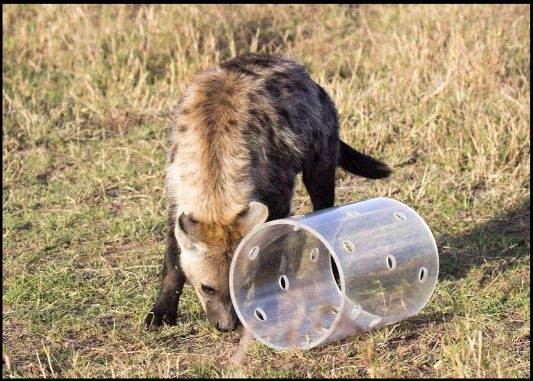
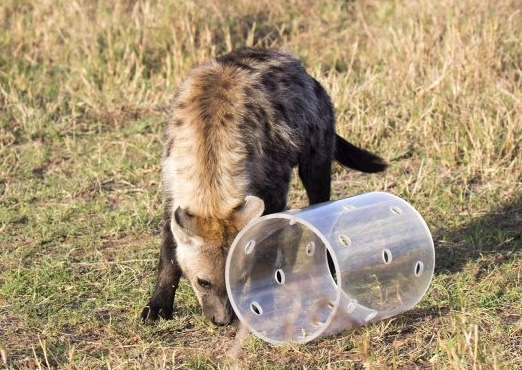
Updating text

diff --git a/research.html b/research.html
@@ -32,7 +32,7 @@
 <div class="banner" style="background-image:url('images/img-9183.jpg')"><div class="banner-inner"><h1>Research</h1></div></div>
 <main class="wrap content">
 <section class="intro-left">
-  <p class="lead">We study how individual differences in cognition develop, how social, ecological, and anthropogenic factors shape animal cognition in the wild, and how cognition affects fitness outcomes. Cities are among the fastest-changing environments on Earth, so we use urbanization as a natural experiment to ask how cognitive abilities develop, evolve, and help animals adapt to living alongside people.</p>
+  <p class="lead">Research in my lab is focused on how individual differences in cognition develop, how social, ecological, and anthropogenic factors shape animal cognition in the wild, and how cognition affects fitness outcomes. Cities are among the fastest-changing environments on Earth, so we use urbanization as an (un)natural <i>in situ</i>experiment to ask how cognitive abilities develop, evolve, and help animals adapt to environmental change.</p>
 </section>
 
 <section>
@@ -41,22 +41,22 @@
     <article class="theme">
       <h3>Self-domestication</h3>
       <p class="tags"><span class="tag tag-hyenas">Hyenas</span><span class="tag tag-coyotes">Coyotes</span></p>
-      <p>Animals living near people may face selection for less fear and aggression toward humans &mdash; the same pressures thought to have shaped early domestication. We ask whether urban hyenas and coyotes show signs of this &ldquo;self-domestication&rdquo; in their morphology, cognition, and prosocial behavior, and what it means for how they interact with people.</p>
+      <p>Animals living near people may face selection for less fear and aggression toward humans and/or reduced intraspecific aggression; the same pressures thought to have shaped early domestication. We ask whether urban hyenas and coyotes show signs of this &ldquo;self-domestication&rdquo; in their morphology, cognition, and prosocial behavior, and investigate what this could mean for human-wildlife interactions.</p>
     </article>
     <article class="theme">
       <h3>Problem-solving</h3>
       <p class="tags"><span class="tag tag-hyenas">Hyenas</span><span class="tag tag-coyotes">Coyotes</span></p>
-      <p>We develop a wide array of cognitive apparatus, from puzzle boxes like the multi-access box to tasks built for the field, to test abilities such as innovation, inhibitory control, and cooperation in wild animals. We then ask how individual traits, social factors, and urban living shape these abilities, and whether better problem-solvers gain a fitness advantage.</p>
+      <p>We use a wide array of cognitive apparatus, from puzzle boxes like the multi-access box to automated feeders, to test abilities such as innovation, inhibitory control, and cooperation in wild animals. We then ask how individual traits, social factors, and urban living shape these abilities, and whether better problem-solvers gain a fitness advantage.</p>
     </article>
     <article class="theme">
       <h3>Responses to novelty</h3>
       <p class="tags"><span class="tag tag-coyotes">Coyotes</span></p>
-      <p>How an animal reacts to something new &mdash; approaching it or avoiding it &mdash; shapes whether it can take advantage of new opportunities, and how likely it is to come into conflict with people. We study neophobia and exploration in coyotes and how these responses relate to life in human-dominated landscapes.</p>
+      <p>How an animal reacts to novelty shapes whether it can take advantage of new opportunities and how likely it is to come into conflict with people. We aim to disentangle both neophobia and neophilia from anthrophobia and anthrophilia in coyotes and how these responses relate to life in human-dominated landscapes.</p>
     </article>
     <article class="theme">
       <h3>Communication</h3>
       <p class="tags"><span class="tag tag-coyotes">Coyotes</span></p>
-      <p>Vocal communication coordinates group life, from deciding where to move to keeping track of who is nearby. Building on our work with meerkat &ldquo;move&rdquo; calls, we are investigating coyote vocal communication and how it may change in human-dominated environments.</p>
+      <p>Vocal communication coordinates group life, from deciding where to move to keeping track of who is nearby. Building on our work with meerkat communication, we are investigating coyote vocal communication and how it may change in human-dominated environments.</p>
     </article>
   </div>
 </section>
@@ -69,11 +69,11 @@
       <h3>Mara Hyena Project</h3>
       <p class="tags"><span class="tag tag-hyenas">Hyenas</span></p>
       <p>The <a href="https://marahyenas.com">Mara Hyena Project</a> has studied wild spotted hyenas in the Maasai Mara National Reserve, Kenya, since 1988, following individually known hyenas across clans and generations. This long-term record lets us link cognition to development, social rank, and lifetime reproductive success.</p>
-      <p>Our hyena work has also extended to urban hyenas in Harar and Mekelle, Ethiopia, where hyenas live alongside people &mdash; a rare opportunity to compare the cognition of the same species in wild and urban settings.</p>
+      <p>Our hyena work has also extended to urban hyenas in Ethiopia, where hyenas live alongside people which provides a rare opportunity to compare the cognition of the same species in wild and urban settings.</p>
     </div>
   </article>
   <article class="project">
-    <div class="project-img placeholder-img" role="img" aria-label="Coyote project photo coming soon"><span>Coyote photo coming soon</span></div>
+    <div class="project-img"><img src="images/CoyoteDLei.png"><p class="photo-credit">Photo: David Lei</p></div>
     <div class="project-text">
       <h3>Coyote Project</h3>
       <p class="tags"><span class="tag tag-coyotes">Coyotes</span></p>
@@ -83,9 +83,9 @@
   <article class="project">
     <div class="project-img"><img src="images/movementlju.jpg" alt="A group of meerkats traveling together" width="936" height="726" loading="lazy"></div>
     <div class="project-text">
-      <h3>Previous work: meerkat communication</h3>
+      <h3>Kalahari Meerkat Project</h3>
       <p class="tags"><span class="tag tag-meerkats">Meerkats</span></p>
-      <p>As a postdoc at the University of Zurich, Dr. Johnson-Ulrich studied meerkat communication and collective movement at the Kalahari Research Centre, South Africa, using playback experiments to test how &ldquo;move&rdquo; calls influence group decisions.</p>
+      <p>As a postdoc at the University of Zurich, Dr. Johnson-Ulrich studied meerkat communication and collective movement at the Kalahari Research Centre, South Africa, using playback experiments to test how &ldquo;move&rdquo; calls influence group decisions. Lily continues to collaborate with meerkat researchers on questions related to cognition and collective movement.</p>
     </div>
   </article>
 </section>
@@ -102,7 +102,7 @@
       <strong>Urban Cognition Lab</strong><br>
       Department of Psychology, Hunter College (CUNY)<br>
       695 Park Avenue, New York, NY 10065<br>
-      <a href="mailto:l.johnsonulrich@gmail.com">l.johnsonulrich@gmail.com</a>
+      <a href="mailto:lily.johnson-ulrich@hunter.cuny.edu">lily.johnson-ulrich@hunter.cuny.edu</a>
     </div>
     <div class="footer-links">
       <a href="files/Johnson-Ulrich_CV.pdf">CV</a>

diff --git a/dei.html b/dei.html
@@ -32,15 +32,15 @@
 <div class="banner" style="background-image:url('images/805251395.jpg')"><div class="banner-inner"><h1>Outreach &amp; Inclusion</h1></div></div>
 <main class="wrap content">
 <section class="intro-left">
-  <p class="lead">Research matters most when it reaches people. We share what we learn about animal minds with students, schools, zoos, and the public &mdash; and we work to make science a place where everyone belongs.</p>
+  <p class="lead">Research matters most when it reaches people. We share what we learn about animal minds with students, schools, zoos, and the public, and we work to make science a place where everyone belongs.</p>
 </section>
 
 <section class="two-col">
   <figure class="col-images"><img src="images/dejaclear.jpg" alt="A spotted hyena solving a clear cylinder puzzle" width="533" height="381" loading="lazy"><figcaption>DEJA, a wild spotted hyena, works out a puzzle during a cognition test.</figcaption></figure>
   <div class="col-text">
     <h2>Rethinking the hyena</h2>
-    <p>Spotted hyenas are often cast as cowardly, dim-witted scavengers. The reality is very different: they live in complex, female-led societies, kill most of their own food, are devoted mothers, and are skilled problem-solvers. Our research on hyena innovation and self-control adds to the evidence that these are some of the most socially and cognitively sophisticated carnivores in Africa.</p>
-    <p>We help set the record straight wherever we can &mdash; fact-checking hyena graphics for <em>National Geographic</em>, sharing cognition research with zoo audiences, illustrating educational pamphlets, and writing for the public. See more in <a href="in-the-news.html">News</a> and <a href="artscience.html">ArtScience</a>.</p>
+    <p>Spotted hyenas are often cast as mangy, cowardly scavengers. In reality, hyenas live in complex, female-led societies, hunt and kill most of their own food, are devoted mothers, and are skilled problem-solvers. Our research on hyena innovation and self-control adds to the evidence that these are some of the most socially and cognitively sophisticated carnivores in Africa.</p>
+    <p>We aim to help set the record straight wherever we can, e.g., fact-checking hyena graphics for <em>National Geographic</em>, sharing cognition research with the public, and illustrating educational pamphlets and posters. See more in <a href="in-the-news.html">News</a> and <a href="artscience.html">ArtScience</a>. I hope that one day the public sees hyenas a majestic carnivores akin to tigers, wolves, and bears!</p>
   </div>
 </section>
 
@@ -49,8 +49,7 @@
   <div class="col-text">
     <h2>Sharing animal cognition</h2>
     <p>Animals solve problems, make decisions, and communicate in ways that surprise most people. We bring that research to non-scientists through public talks, field blogs like <a href="http://msuhyenas.blogspot.com">Notes from Kenya</a>, media interviews, photography, and illustration.</p>
-    <p>We have also contributed to <strong>Project Biodiversify</strong>, which increases the visibility of researchers from underrepresented groups and gives biology teachers ready-to-use materials on new findings.</p>
-    <p class="callout"><strong>Invite us!</strong> We&rsquo;re happy to talk with schools, community groups, and nature organizations about hyenas, coyotes, and animal intelligence. <a href="mailto:l.johnsonulrich@gmail.com">Get in touch</a>.</p>
+    <p class="callout"><strong>Invite us!</strong> We&rsquo;re happy to talk with schools, community groups, and nature organizations about hyenas, coyotes, and animal intelligence. <a href="mailto:lily.johnson-ulrich@hunter.cuny.edu">Get in touch</a>.</p>
   </div>
 </section>
 
@@ -58,14 +57,15 @@
   <figure class="col-images"><img src="images/img-8069.jpg" alt="Students observing wildlife at a sanctuary" width="1100" height="733" loading="lazy"></figure>
   <div class="col-text">
     <h2>Inclusive science</h2>
-    <p>Classrooms, workplaces, and research are better when they include people from many backgrounds and experiences. In my teaching and mentoring I aim to make sure every student is treated fairly and feels welcome &mdash; including students of all races, ethnicities, genders, sexual orientations, socio-economic backgrounds, ages, religions, abilities, and mental health statuses.</p>
+    <p>Classrooms, workplaces, and research are better when they include people from many backgrounds and experiences. In my teaching and mentoring I aim to make sure every student is treated fairly and feels welcome, including students of all races, ethnicities, genders, sexual orientations, socio-economic backgrounds, ages, religions, abilities, and mental health statuses.</p>
     <p>In practice, that means a diversity statement in every syllabus, using students&rsquo; pronouns, avoiding jargon, acronyms, and culture-specific metaphors, and keeping my classroom and office a safe space.</p>
+    <p>Members of my lab are both contributers and users of <strong>Project Biodiversify</strong>, which increases the visibility of researchers from underrepresented groups and gives biology teachers ready-to-use materials on new findings.</p>
   </div>
 </section>
 
 <section class="land">
   <h2>Land acknowledgements</h2>
-  <p>Hunter College stands on the unceded homelands of the Mohican, Wappinger, and Munsee Lenape peoples, who nurtured relations with these waters and soils for generations before forced displacement. My commitment is to steward this space not just through words but through actions &mdash; centering equity in my classroom, challenging systemic harm, and honoring the resilience of Indigenous and marginalized communities whose histories are woven into this place.</p>
+  <p>Hunter College stands on the unceded homelands of the Mohican, Wappinger, and Munsee Lenape peoples, who nurtured relations with these waters and soils for generations before forced displacement. My commitment is to steward this space not just through words but through actions by centering equity in my classroom, challenging systemic harm, and honoring the resilience of Indigenous and marginalized communities whose histories are woven into this place.</p>
   <p>The Mara Hyena Project conducts its research in the Maasai Mara of Kenya, on lands traditionally stewarded by the Maasai people, whose livelihoods and cultural identity remain deeply connected to the land and its wildlife. I am grateful for the knowledge, hospitality, and collaboration of Maasai community members and colleagues.</p>
 </section>
 </main>
@@ -80,7 +80,7 @@
       <strong>Urban Cognition Lab</strong><br>
       Department of Psychology, Hunter College (CUNY)<br>
       695 Park Avenue, New York, NY 10065<br>
-      <a href="mailto:l.johnsonulrich@gmail.com">l.johnsonulrich@gmail.com</a>
+      <a href="mailto:lily.johnson-ulrich@hunter.cuny.edu">lily.johnson-ulrich@hunter.cuny.edu</a>
     </div>
     <div class="footer-links">
       <a href="files/Johnson-Ulrich_CV.pdf">CV</a>

diff --git a/join.html b/join.html
@@ -37,16 +37,17 @@
 <div class="join-grid">
   <article class="theme">
     <h3>Undergraduates</h3>
-    <p>Hunter undergraduates can work in the lab <strong>only by enrolling in independent research for course credit</strong>. Lab members get hands-on research experience: coding behavior from video, managing data, reviewing literature, and helping design experiments. No prior research experience is needed &mdash; curiosity, reliability, and attention to detail matter most.</p>
-    <p>To apply, <a href="mailto:l.johnsonulrich@gmail.com?subject=Independent%20research%20in%20the%20Urban%20Cognition%20Lab">email me</a> with your year and major, why you&rsquo;re interested in the lab, and the semester you&rsquo;d like to enroll.</p>
+    <p>Hunter undergraduates can work in the lab <strong>only by enrolling in independent research in psychology for course credit</strong>. Lab members get hands-on research experience: coding behavior from video, managing data, reviewing literature, and helping design experiments. No prior research experience is needed; curiosity, reliability, and attention to detail matter most.</p>
+    <p>To apply, <a href="mailto:lily.johnson-ulrich@hunter.cuny.edu?subject=Independent%20research%20in%20the%20Urban%20Cognition%20Lab">email me</a> with your year and major, why you&rsquo;re interested in the lab, and the semester you&rsquo;d like to enroll.</p>
   </article>
   <article class="theme">
     <h3>Prospective MA &amp; PhD students</h3>
-    <p>I welcome inquiries from prospective graduate students interested in animal cognition, urban wildlife, or communication. Please <a href="mailto:l.johnsonulrich@gmail.com?subject=Prospective%20graduate%20student">email me</a> and include:</p>
+    <p>I welcome inquiries from prospective graduate students interested in animal cognition, urban wildlife, or communication. Please <a href="mailto:lily.johnson-ulrich@hunter.cuny.edu?subject=Prospective%20graduate%20student">email me</a> and include:</p>
     <ul>
       <li>Your academic interests</li>
       <li>Your career goals</li>
-      <li>What you could contribute to the lab</li>
+      <li>Specific questions or hypotheses you'd like to work on in hyenas or coyotes</li>
+      <li>What unique skills or attributes you would contribute to the lab</li>
       <li>Your CV</li>
       <li>An unofficial transcript</li>
       <li>An example of your scientific writing</li>
@@ -54,7 +55,7 @@
   </article>
   <article class="theme">
     <h3>Postdocs</h3>
-    <p>I don&rsquo;t currently have funding for a postdoctoral position, but postdocs interested in applying for fellowship funding with me as a mentor are welcome to <a href="mailto:l.johnsonulrich@gmail.com?subject=Postdoctoral%20fellowship%20inquiry">reach out</a>.</p>
+    <p>I don&rsquo;t currently have funding for a postdoctoral position, but postdocs interested in applying for fellowship funding with me as a mentor are welcome to <a href="mailto:lily.johnson-ulrich@hunter.cuny.edu?subject=Postdoctoral%20fellowship%20inquiry">reach out</a>.</p>
   </article>
 </div>
 </main>
@@ -69,7 +70,7 @@
       <strong>Urban Cognition Lab</strong><br>
       Department of Psychology, Hunter College (CUNY)<br>
       695 Park Avenue, New York, NY 10065<br>
-      <a href="mailto:l.johnsonulrich@gmail.com">l.johnsonulrich@gmail.com</a>
+      <a href="mailto:lily.johnson-ulrich@hunter.cuny.edu">lily.johnson-ulrich@hunter.cuny.edu</a>
     </div>
     <div class="footer-links">
       <a href="files/Johnson-Ulrich_CV.pdf">CV</a>

diff --git a/index.html b/index.html
@@ -45,11 +45,11 @@
   <p class="intro-actions"><a class="btn" href="research.html">Our research</a> <a class="btn btn-outline" href="join.html">Join the lab</a></p>
 </section>
 <section class="cards">
-<a class="card" href="research.html"><img src="images/img-9183.jpg" alt="" width="900" height="600" class="card-img" loading="lazy"><span class="card-body"><strong>Research</strong><span>Hyenas, coyotes, and how animals think their way through cities.</span></span></a>
-<a class="card" href="people.html"><img src="images/img-1234.jpg" alt="" width="600" height="800" class="card-img" loading="lazy"><span class="card-body"><strong>People</strong><span>Meet Dr. Johnson-Ulrich and the students in the lab.</span></span></a>
-<a class="card" href="publications.html"><img src="images/img-0215.jpg" alt="" width="900" height="600" class="card-img" loading="lazy"><span class="card-body"><strong>Publications</strong><span>Papers, chapters, and a downloadable CV.</span></span></a>
+<a class="card" href="research.html"><img src="images/img-9183.jpg" alt="" width="900" height="600" class="card-img" loading="lazy"><span class="card-body"><strong>Research</strong><span>Cognition and urbanization.</span></span></a>
+<a class="card" href="people.html"><img src="images/img-1234.jpg" alt="" width="600" height="800" class="card-img" loading="lazy"><span class="card-body"><strong>People</strong><span>About me and my students in the lab.</span></span></a>
+<a class="card" href="publications.html"><img src="images/img-0215.jpg" alt="" width="900" height="600" class="card-img" loading="lazy"><span class="card-body"><strong>Publications</strong><span>Papers, chapters, and my CV.</span></span></a>
 <a class="card" href="in-the-news.html"><img src="images/242725962.jpg" alt="" width="900" height="802" class="card-img" loading="lazy"><span class="card-body"><strong>News</strong><span>Lab updates and media coverage of our research.</span></span></a>
-<a class="card" href="dei.html"><img src="images/img-6838.jpg" alt="" width="900" height="675" class="card-img" loading="lazy"><span class="card-body"><strong>Outreach</strong><span>Sharing animal cognition and rethinking the hyena.</span></span></a>
+<a class="card" href="dei.html"><img src="images/img-6838.jpg" alt="" width="900" height="675" class="card-img" loading="lazy"><span class="card-body"><strong>Outreach</strong><span>Sharing our research and dispelling myths about hyenas.</span></span></a>
 <a class="card" href="join.html"><img src="images/img-5966.jpg" alt="" width="600" height="800" class="card-img" loading="lazy"><span class="card-body"><strong>Join the Lab</strong><span>Research opportunities for Hunter students.</span></span></a>
 </section>
 </div>
@@ -65,7 +65,7 @@
       <strong>Urban Cognition Lab</strong><br>
       Department of Psychology, Hunter College (CUNY)<br>
       695 Park Avenue, New York, NY 10065<br>
-      <a href="mailto:l.johnsonulrich@gmail.com">l.johnsonulrich@gmail.com</a>
+      <a href="mailto:lily.johnson-ulrich@hunter.cuny.edu">lily.johnson-ulrich@hunter.cuny.edu</a>
     </div>
     <div class="footer-links">
       <a href="files/Johnson-Ulrich_CV.pdf">CV</a>

diff --git a/people.html b/people.html
@@ -40,7 +40,7 @@
 <p>My postdoctoral research focused on meerkat communication and collective movement. In particular, I investigated the function of 'move' calls on directional decision-making. I used playback experiments with habituated meerkats at the Kalahari Research Centre in South Africa.</p>
 <p>My dissertation research focused on the individual, social, and ecological causes of intraspecific variation in spotted hyena cognition and its consequences. I investigated the role that social factors like group size and rank have on the development of inhibitory control in wild spotted hyenas. I also traveled to Ethiopia to study innovation in urban spotted hyenas in order to better understand how animals might use abilities like innovation to adapt to urbanization and human-induced rapid environmental change.</p>
 <p>View my publications at <a href="https://www.researchgate.net/profile/Lily-Johnson-Ulrich">Research Gate</a> or <a href="https://scholar.google.com/citations?user=RbqpDe0AAAAJ&amp;hl=en&amp;oi=ao">Google Scholar</a> for more information about my research.</p>
-<p>Contact me directly at <a href="mailto:l.johnsonulrich@gmail.com">l.johnsonulrich@gmail.com</a>.</p>
+<p>Contact me directly at <a href="mailto:lily.johnson-ulrich@hunter.cuny.edu">lily.johnson-ulrich@hunter.cuny.edu</a>.</p>
     <p><a class="btn" href="files/Johnson-Ulrich_CV.pdf">Download CV (PDF)</a></p>
   </div>
 </article>
@@ -58,7 +58,7 @@
     <img class="avatar" src="images/tanishi-dasgupta.jpg" alt="Tanishi Dasgupta" width="120" height="120">
     <h3>Tanishi Dasgupta</h3>
     <p class="role">MA Student, Hunter College</p>
-    <p class="member-bio">Tanishi is interested in how competitive interactions shape cognition, and studies lion and hyena behavior in relation to cognition.</p>
+    <p class="member-bio">Tanishi is interested in how competitive interactions between lions and hyenas shape cognition.</p>
   </article>
   <article class="member">
     <img class="avatar" src="images/amanda-frey.jpg" alt="Amanda Frey" width="120" height="120">
@@ -81,7 +81,7 @@
       <strong>Urban Cognition Lab</strong><br>
       Department of Psychology, Hunter College (CUNY)<br>
       695 Park Avenue, New York, NY 10065<br>
-      <a href="mailto:l.johnsonulrich@gmail.com">l.johnsonulrich@gmail.com</a>
+      <a href="mailto:lily.johnson-ulrich@hunter.cuny.edu">lily.johnson-ulrich@hunter.cuny.edu</a>
     </div>
     <div class="footer-links">
       <a href="files/Johnson-Ulrich_CV.pdf">CV</a>

diff --git a/in-the-news.html b/in-the-news.html
@@ -166,7 +166,7 @@
       <strong>Urban Cognition Lab</strong><br>
       Department of Psychology, Hunter College (CUNY)<br>
       695 Park Avenue, New York, NY 10065<br>
-      <a href="mailto:l.johnsonulrich@gmail.com">l.johnsonulrich@gmail.com</a>
+      <a href="mailto:lily.johnson-ulrich@hunter.cuny.edu">lily.johnson-ulrich@hunter.cuny.edu</a>
     </div>
     <div class="footer-links">
       <a href="files/Johnson-Ulrich_CV.pdf">CV</a>

diff --git a/photos.html b/photos.html
@@ -109,7 +109,7 @@
       <strong>Urban Cognition Lab</strong><br>
       Department of Psychology, Hunter College (CUNY)<br>
       695 Park Avenue, New York, NY 10065<br>
-      <a href="mailto:l.johnsonulrich@gmail.com">l.johnsonulrich@gmail.com</a>
+      <a href="mailto:lily.johnson-ulrich@hunter.cuny.edu">lily.johnson-ulrich@hunter.cuny.edu</a>
     </div>
     <div class="footer-links">
       <a href="files/Johnson-Ulrich_CV.pdf">CV</a>

diff --git a/artscience.html b/artscience.html
@@ -75,7 +75,7 @@
       <strong>Urban Cognition Lab</strong><br>
       Department of Psychology, Hunter College (CUNY)<br>
       695 Park Avenue, New York, NY 10065<br>
-      <a href="mailto:l.johnsonulrich@gmail.com">l.johnsonulrich@gmail.com</a>
+      <a href="mailto:lily.johnson-ulrich@hunter.cuny.edu">lily.johnson-ulrich@hunter.cuny.edu</a>
     </div>
     <div class="footer-links">
       <a href="files/Johnson-Ulrich_CV.pdf">CV</a>

diff --git a/publications.html b/publications.html
@@ -66,7 +66,7 @@
       <strong>Urban Cognition Lab</strong><br>
       Department of Psychology, Hunter College (CUNY)<br>
       695 Park Avenue, New York, NY 10065<br>
-      <a href="mailto:l.johnsonulrich@gmail.com">l.johnsonulrich@gmail.com</a>
+      <a href="mailto:lily.johnson-ulrich@hunter.cuny.edu">lily.johnson-ulrich@hunter.cuny.edu</a>
     </div>
     <div class="footer-links">
       <a href="files/Johnson-Ulrich_CV.pdf">CV</a>

diff --git a/css/style.css b/css/style.css
@@ -252,3 +252,4 @@ details summary { cursor: pointer; color: var(--brand); font-weight: 600; margin
   font-family: var(--serif); font-weight: 700; font-size: 0.85rem; line-height: 1.1; text-transform: uppercase; letter-spacing: 0.04em; }
 .logo-text:hover { color: var(--brand); }
 .logo-text .logo { height: 56px; width: auto; }
+.photo-credit { font-size: 0.78rem; color: var(--muted); margin: 0.35rem 0 0; }
